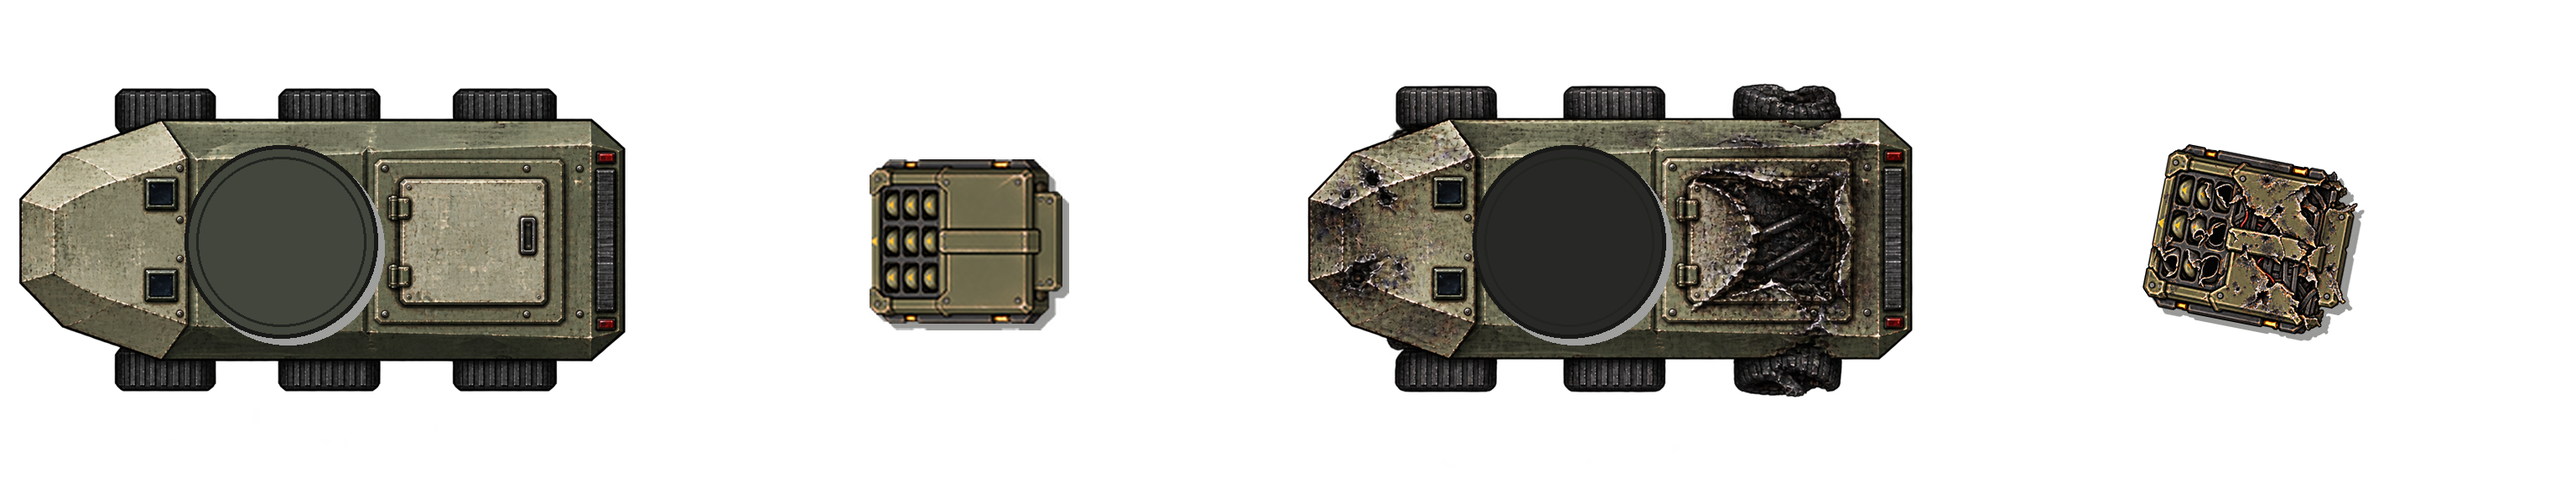
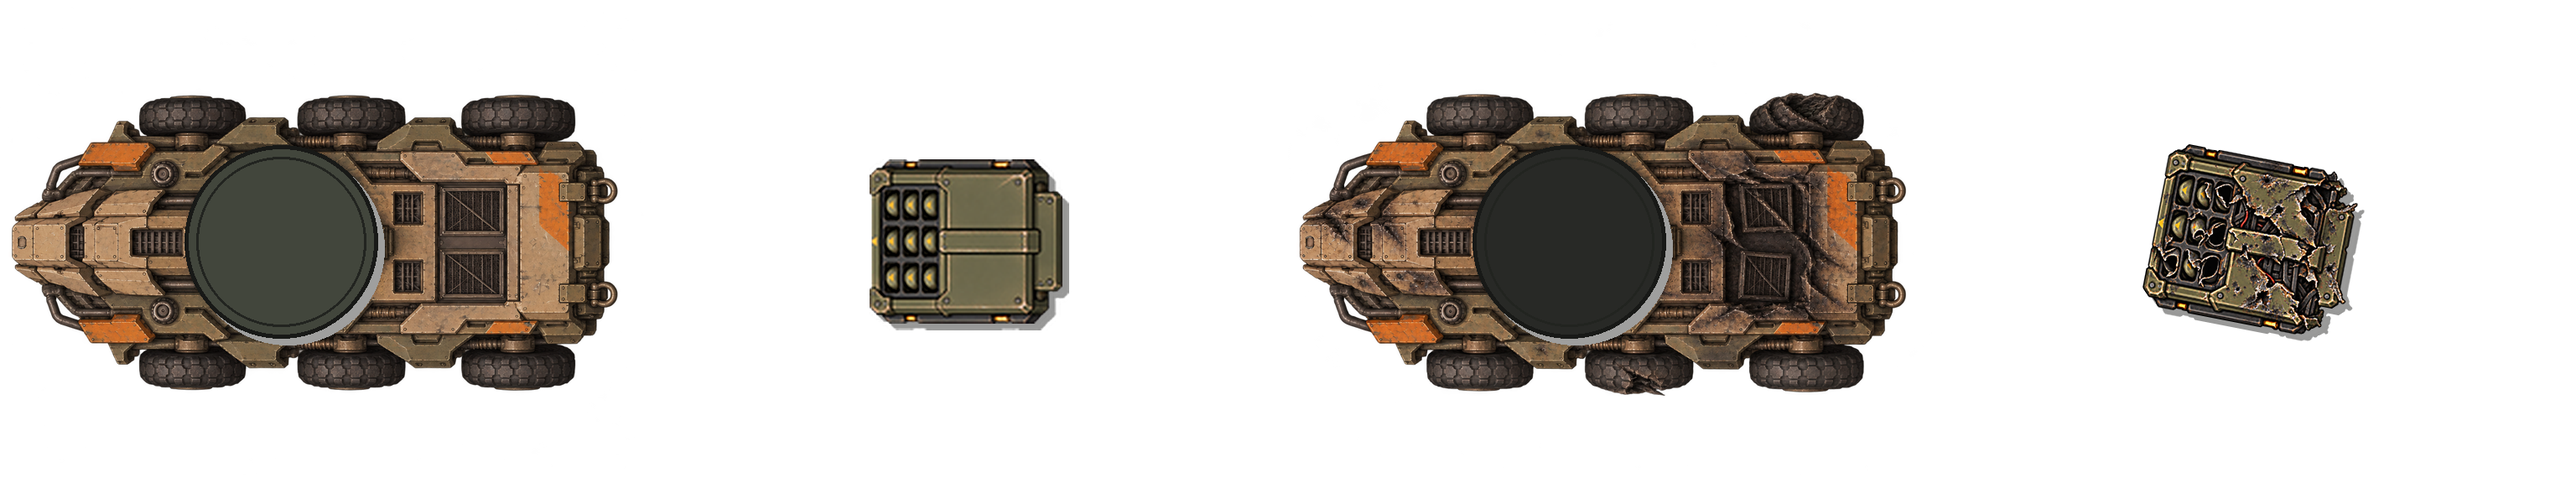
The APC, mortar carrier and LRM carrier ride the Hegemony hull (owner's concept), and the turret head has its own painted wreck. art-source/vehicles/apc/hegemony/pack.py turns the concept and an ImageGen wreck made on it to point left, scales them to the old hull's length and puts the concept's turr

Changed region(s): [[0.5, 0.1562, 0.75, 0.8438], [0.0, 0.1562, 0.25, 0.8125]]

diff --git a/art-source/vehicles/apc/hegemony/pack.py b/art-source/vehicles/apc/hegemony/pack.py
@@ -1,0 +1,75 @@
+"""Pack the APC's sheet from the owner's Hegemony concept (hegemony-armor-line.md, slice 2).
+
+  mod/graphics/battle/vehicles/army-apc.png   4 x 768x576: Hegemony hull, twin-MG turret, Hegemony wreck, wrecked turret
+
+The live hull is `hegemony-concepts/heg-apc-concept.png` verbatim (alpha is clean; its dark glow is colour on zero
+alpha) and the wreck `wreck-raw.png`, an ImageGen edit made on it with `wreck.prompt.txt`, registered to it pixel for
+pixel. Both are drawn nose up, so each is turned a quarter anticlockwise to point LEFT, scaled uniformly so the hull is
+as long as the old APC's (722 px of the 768 px frame) and placed so the concept's turret ring centre lands on the roof
+bearing (335.333, 288) that `VehicleType.Apc.TURRET_MOUNT_Y` and the mortar and LRM carriers' packs already use. The
+hull's own centre then sits about 9 px aft of the frame centre, 0.03 cells.
+
+Slots 1 and 3 keep the old twin-MG turret frames from `../master.png` and `../wreck-master.png` at their original
+registration (`../registration.json`). A fitted weapon is drawn under the turret head instead (`TurretHead`), so these
+frames are only a fallback for a hull drawn without a gun card.
+
+After running this, re-run the mortar and LRM carrier packs: both copy this sheet's hull slots.
+Run: python art-source/vehicles/apc/hegemony/pack.py
+"""
+import json
+from pathlib import Path
+
+from PIL import Image
+
+HERE = Path(__file__).resolve().parent
+APC = HERE.parent
+REPO = HERE.parents[3]
+OUT = REPO / "mod" / "graphics" / "battle" / "vehicles" / "army-apc.png"
+LIVE = REPO / "art-source" / "vehicles" / "hegemony-concepts" / "heg-apc-concept.png"
+WRECK = HERE / "wreck-raw.png"
+
+SLOT_W, SLOT_H = 768, 576
+HULL_LENGTH_PX = 722                 # the old APC hull's opaque length in its frame
+CONCEPT_NOSE_Y, CONCEPT_TAIL_Y = 92, 1365  # the concept hull's opaque extent along its length (alpha > 128)
+CONCEPT_RING = (514, 658)            # the concept's turret ring centre, measured off its disc
+ROOF_BEARING = (335.333, 288)        # where the ring lands in the frame
+
+
+def hull_frame(source: Path) -> Image.Image:
+    image = Image.open(source).convert("RGBA")
+    width = image.width
+    turned = image.rotate(90, expand=True)  # anticlockwise: the top (nose) goes to the left
+    ring = (CONCEPT_RING[1], width - 1 - CONCEPT_RING[0])
+    scale = HULL_LENGTH_PX / (CONCEPT_TAIL_Y - CONCEPT_NOSE_Y)
+    scaled = turned.resize((round(turned.width * scale), round(turned.height * scale)), Image.Resampling.LANCZOS)
+    frame = Image.new("RGBA", (SLOT_W, SLOT_H), (0, 0, 0, 0))
+    frame.alpha_composite(scaled, (round(ROOF_BEARING[0] - ring[0] * scale), round(ROOF_BEARING[1] - ring[1] * scale)))
+    return frame
+
+
+def old_turret_frame(entry: dict) -> Image.Image:
+    source = Image.open(APC / entry["source"]).convert("RGBA")
+    x, y, w, h = entry["sourceRect"]
+    scale = entry["scale"]
+    part = source.crop((x, y, x + w, y + h))
+    part = part.resize((round(w * scale), round(h * scale)), Image.Resampling.BICUBIC)
+    local_x = entry["targetCenter"][0] % SLOT_W
+    frame = Image.new("RGBA", (SLOT_W, SLOT_H), (0, 0, 0, 0))
+    frame.alpha_composite(part, (round(local_x - (entry["sourceCenter"][0] - x) * scale),
+                                 round(entry["targetCenter"][1] - (entry["sourceCenter"][1] - y) * scale)))
+    return frame
+
+
+def main() -> None:
+    registration = json.loads((APC / "registration.json").read_text())
+    frames = [hull_frame(LIVE), old_turret_frame(registration["frames"][1]),
+              hull_frame(WRECK), old_turret_frame(registration["frames"][3])]
+    sheet = Image.new("RGBA", (SLOT_W * 4, SLOT_H), (0, 0, 0, 0))
+    for index, frame in enumerate(frames):
+        sheet.paste(frame, (index * SLOT_W, 0))
+    sheet.save(OUT)
+    print("wrote", OUT)
+
+
+if __name__ == "__main__":
+    main()

diff --git a/src/main/java/com/dillon/starsectormarines/ops/battleview/ConvoyRenderSystem.java b/src/main/java/com/dillon/starsectormarines/ops/battleview/ConvoyRenderSystem.java
@@ -221,8 +221,7 @@ public final class ConvoyRenderSystem implements RenderSystem {
                     // No part in the gun card: the ring stands bare, and the hull has no turret and no gun; a hull
                     // with a closed head shows it with nothing in its slot.
                     drawTurretHead(out, sprites, type, cam.cellToScreenX(body.x + mountWorldX),
-                            cam.cellToScreenY(body.y + mountWorldY), cellPx, turretStateFacing,
-                            wrecked ? WRECK_SHADE : 1f, alphaMult);
+                            cam.cellToScreenY(body.y + mountWorldY), cellPx, turretStateFacing, wrecked, alphaMult);
                 } else if (gun == null) {
                     if (raised) {
                         float lift = RAISE_SHADOW_CELLS * turret.elevation;
@@ -321,7 +320,7 @@ public final class ConvoyRenderSystem implements RenderSystem {
                     // A family's closed head goes over the weapon, so only its barrel shows through the slot; it holds
                     // the ring's centre while the gun under it kicks.
                     drawTurretHead(out, sprites, type, cam.cellToScreenX(body.x + mountWorldX),
-                            cam.cellToScreenY(body.y + mountWorldY), cellPx, turretStateFacing + wreckSkewDeg, shade,
+                            cam.cellToScreenY(body.y + mountWorldY), cellPx, turretStateFacing + wreckSkewDeg, wrecked,
                             alphaMult);
                 }
                 if (locations != null && locations.turret() != null
@@ -346,11 +345,17 @@ public final class ConvoyRenderSystem implements RenderSystem {
 
     /**
      * Draws {@code type}'s closed family head ({@link VehicleGun#headCells}) centred on the ring at the screen point,
-     * its slot toward {@code facingDeg}; nothing for a hull without one or when the art did not load.
+     * its slot toward {@code facingDeg}; nothing for a hull without one or when the art did not load. A wreck draws the
+     * head's own painted wreck, falling back to the live head charred.
      */
     private static void drawTurretHead(DrawList out, BattleSprites sprites, VehicleType type, float x, float y,
-                                       float cellPx, float facingDeg, float shade, float alpha) {
-        LayeredSpriteCache head = sprites.vehicleTurretHead(type.turretHead());
+                                       float cellPx, float facingDeg, boolean wrecked, float alpha) {
+        LayeredSpriteCache head = wrecked ? sprites.vehicleTurretHead(type.turretHead(), true) : null;
+        float shade = 1f;
+        if (head == null) {
+            head = sprites.vehicleTurretHead(type.turretHead(), false);
+            shade = wrecked ? WRECK_SHADE : 1f;
+        }
         if (head == null) return;
         float px = VehicleGun.headCells(type) * cellPx;
         out.addSprite(RenderLayer.CONVOY, head.sprite, x, y, px, px, facingDeg, shade, shade, shade, alpha);

diff --git a/art-source/vehicles/turret-head/build.py b/art-source/vehicles/turret-head/build.py
@@ -1,6 +1,8 @@
 """Build the shared turret head's sprite from the accepted ImageGen master beside this file.
 
-  master-v2.png -> mod/graphics/battle/vehicles/turret-head-hegemony.png (320 px square, gun slot to the top)
+  master-v2.png -> mod/graphics/battle/vehicles/turret-head-hegemony.png       (320 px square, gun slot to the top)
+  wreck-raw.png -> mod/graphics/battle/vehicles/turret-head-hegemony-wreck.png (the same square; an ImageGen edit
+                   made on master-v2.png with wreck.prompt.txt, registered to it pixel for pixel)
 
 `master.png` was the first take: right silhouette and finish, but it copied the hulls' empty-ring hatch (arrows and
 hazard ring) onto the roof, so it read as a second socket; `master-v2.png` asked for a plain cupola instead and is the
@@ -16,22 +18,31 @@ from PIL import Image
 
 HERE = Path(__file__).resolve().parent
 REPO = HERE.parents[2]
-OUT = REPO / "mod" / "graphics" / "battle" / "vehicles" / "turret-head-hegemony.png"
+VEHICLES = REPO / "mod" / "graphics" / "battle" / "vehicles"
+HEADS = (("master-v2.png", "turret-head-hegemony.png"), ("wreck-raw.png", "turret-head-hegemony-wreck.png"))
 GUIDE_SIZE = 1024
 GUIDE_BASE_RADIUS = 380
 SIZE = 320
 
 
-def main() -> None:
-    image = Image.open(HERE / "master-v2.png").convert("RGBA")
+def build(source: str, output: str, half: int = 0) -> int:
+    image = Image.open(HERE / source).convert("RGBA")
     scale = image.width / GUIDE_SIZE
     cx = cy = image.width / 2
     alpha = image.getchannel("A").point(lambda v: 255 if v >= 24 else 0)
     left, top, right, bottom = alpha.getbbox()
-    half = math.ceil(max(cx - left, right - cx, cy - top, bottom - cy))
+    half = half or math.ceil(max(cx - left, right - cx, cy - top, bottom - cy))
     square = image.crop((round(cx - half), round(cy - half), round(cx + half), round(cy + half)))
-    square.resize((SIZE, SIZE), Image.Resampling.LANCZOS).save(OUT)
-    print("wrote", OUT, "side/base diameter =", round(2 * half / (2 * GUIDE_BASE_RADIUS * scale), 4))
+    square.resize((SIZE, SIZE), Image.Resampling.LANCZOS).save(VEHICLES / output)
+    print("wrote", output, "side/base diameter =", round(2 * half / (2 * GUIDE_BASE_RADIUS * scale), 4))
+    return half
+
+
+def main() -> None:
+    # The wreck is cut to the live head's square, so the swap does not move or rescale it.
+    half = build(*HEADS[0])
+    for source, output in HEADS[1:]:
+        build(source, output, half)
 
 
 if __name__ == "__main__":

diff --git a/src/main/java/com/dillon/starsectormarines/ops/battleview/BattleSprites.java b/src/main/java/com/dillon/starsectormarines/ops/battleview/BattleSprites.java
@@ -163,6 +163,7 @@ public class BattleSprites {
     private LayeredSpriteCache vehicleTurretBaseLight;
     private LayeredSpriteCache vehicleGunPlate;
     private final EnumMap<TurretHead, LayeredSpriteCache> vehicleTurretHeads = new EnumMap<>(TurretHead.class);
+    private final EnumMap<TurretHead, LayeredSpriteCache> vehicleTurretHeadWrecks = new EnumMap<>(TurretHead.class);
     private LayeredSpriteCache vehicleKitActiveProtection;
     private LayeredSpriteCache vehicleKitActiveProtectionTurret;
     private final EnumMap<MechWeaponComponent, LayeredSpriteCache> vehicleGunDrawings =
@@ -307,8 +308,10 @@ public class BattleSprites {
      * ({@link com.dillon.starsectormarines.battle.vehicle.VehicleGun#plateCells}). Null when the art did not load.
      */
     public LayeredSpriteCache vehicleGunPlate() { return vehicleGunPlate; }
-    /** The closed head of this family drawn over a fitted weapon, gun slot to the top; null when the art did not load. */
-    public LayeredSpriteCache vehicleTurretHead(TurretHead head) { return head == null ? null : vehicleTurretHeads.get(head); }
+    /** The closed head of this family drawn over a fitted weapon, live or wrecked, gun slot to the top; null when the art did not load. */
+    public LayeredSpriteCache vehicleTurretHead(TurretHead head, boolean wrecked) {
+        return head == null ? null : (wrecked ? vehicleTurretHeadWrecks : vehicleTurretHeads).get(head);
+    }
     /**
      * The active-protection kit's launchers and sensor panels, drawn over a gun tank's live hull in its frame's
      * registration ({@link com.dillon.starsectormarines.marine.MechInternal#ACTIVE_PROTECTION}). Null when the
@@ -1399,6 +1402,8 @@ public class BattleSprites {
         for (TurretHead head : TurretHead.values()) {
             LayeredSpriteCache sprite = loadLayeredSprite("graphics/battle/vehicles/" + head.texture);
             if (sprite != null) vehicleTurretHeads.put(head, sprite);
+            LayeredSpriteCache wreck = loadLayeredSprite("graphics/battle/vehicles/" + head.wreckTexture);
+            if (wreck != null) vehicleTurretHeadWrecks.put(head, wreck);
         }
         vehicleKitActiveProtection = loadLayeredSprite("graphics/battle/vehicles/kit-active-protection.png");
         vehicleKitActiveProtectionTurret = loadLayeredSprite("graphics/battle/vehicles/kit-active-protection-turret.png");

diff --git a/src/test/java/com/dillon/starsectormarines/ops/battleview/HeadlessBattleSprites.java b/src/test/java/com/dillon/starsectormarines/ops/battleview/HeadlessBattleSprites.java
@@ -129,6 +129,7 @@ final class HeadlessBattleSprites extends BattleSprites {
     private final LayeredSpriteCache turretBaseLight;
     private final LayeredSpriteCache gunPlate;
     private final EnumMap<TurretHead, LayeredSpriteCache> turretHeads = new EnumMap<>(TurretHead.class);
+    private final EnumMap<TurretHead, LayeredSpriteCache> turretHeadWrecks = new EnumMap<>(TurretHead.class);
     private final LayeredSpriteCache kitActiveProtection;
     private final LayeredSpriteCache kitActiveProtectionTurret;
     private final EnumMap<MechWeaponComponent, LayeredSpriteCache> gunDrawings = new EnumMap<>(MechWeaponComponent.class);
@@ -204,6 +205,8 @@ final class HeadlessBattleSprites extends BattleSprites {
         for (TurretHead head : TurretHead.values()) {
             LayeredSpriteCache sprite = optionalLayer("graphics/battle/vehicles/" + head.texture);
             if (sprite != null) turretHeads.put(head, sprite);
+            LayeredSpriteCache wreck = optionalLayer("graphics/battle/vehicles/" + head.wreckTexture);
+            if (wreck != null) turretHeadWrecks.put(head, wreck);
         }
         kitActiveProtection = optionalLayer("graphics/battle/vehicles/kit-active-protection.png");
         kitActiveProtectionTurret = optionalLayer("graphics/battle/vehicles/kit-active-protection-turret.png");
@@ -375,8 +378,8 @@ final class HeadlessBattleSprites extends BattleSprites {
     @Override public LayeredSpriteCache vehicleTurretCollar() { return turretCollar; }
     @Override public LayeredSpriteCache vehicleTurretBase(boolean light) { return light ? turretBaseLight : turretBase; }
     @Override public LayeredSpriteCache vehicleGunPlate() { return gunPlate; }
-    @Override public LayeredSpriteCache vehicleTurretHead(TurretHead head) {
-        return head == null ? null : turretHeads.get(head);
+    @Override public LayeredSpriteCache vehicleTurretHead(TurretHead head, boolean wrecked) {
+        return head == null ? null : (wrecked ? turretHeadWrecks : turretHeads).get(head);
     }
     @Override public LayeredSpriteCache vehicleKitActiveProtection() { return kitActiveProtection; }
     @Override public LayeredSpriteCache vehicleKitActiveProtectionTurret() { return kitActiveProtectionTurret; }

diff --git a/src/main/java/com/dillon/starsectormarines/ops/battleview/VehicleTreadRender.java b/src/main/java/com/dillon/starsectormarines/ops/battleview/VehicleTreadRender.java
@@ -15,13 +15,15 @@ final class VehicleTreadRender {
     // The dozer's 4.6-cell frame carries the same hull drawn smaller, about the frame center.
     private static final Band[] DOZER = scaled(TANK, VehicleType.BREAKTHROUGH_TANK.drawnLengthCells
             / VehicleType.DOZER_BREACHER.drawnLengthCells);
+    // The Hegemony APC's six tyres (art-source/vehicles/apc/hegemony): the straight middle of each tyre's outer half,
+    // repeating its block tread every 17 pixels.
     private static final Band[] APC = {
-            new Band(148, 246, 111, 30, 151, 42),
-            new Band(344, 444, 111, 30, 347, 42),
-            new Band(552, 652, 111, 30, 555, 42),
-            new Band(148, 246, 432, 28, 151, 42),
-            new Band(344, 444, 432, 28, 347, 42),
-            new Band(552, 652, 432, 28, 555, 42)
+            new Band(185, 275, 119, 28, 188, 17),
+            new Band(372, 465, 119, 28, 375, 17),
+            new Band(570, 668, 119, 28, 573, 17),
+            new Band(185, 275, 431, 28, 188, 17),
+            new Band(372, 465, 431, 28, 375, 17),
+            new Band(570, 668, 431, 28, 573, 17)
     };
 
     static void collect(VehicleType type, UnitSpriteCache cache, GroundBody body,

diff --git a/src/main/java/com/dillon/starsectormarines/battle/vehicle/TurretHead.java b/src/main/java/com/dillon/starsectormarines/battle/vehicle/TurretHead.java
@@ -8,12 +8,15 @@ package com.dillon.starsectormarines.battle.vehicle;
  */
 public enum TurretHead {
     /** Tan and olive Hegemony plate with orange hazard panels, gun slot through the mantlet (art-source/vehicles/turret-head). */
-    HEGEMONY("turret-head-hegemony.png");
+    HEGEMONY("turret-head-hegemony.png", "turret-head-hegemony-wreck.png");
 
     /** The head's sprite under {@code graphics/battle/vehicles/}, gun slot to the top, centred on the ring's centre. */
     public final String texture;
+    /** The same head wrecked, cut to the live head's square so the swap does not move it. */
+    public final String wreckTexture;
 
-    TurretHead(String texture) {
+    TurretHead(String texture, String wreckTexture) {
         this.texture = texture;
+        this.wreckTexture = wreckTexture;
     }
 }

diff --git a/src/main/java/com/dillon/starsectormarines/battle/vehicle/VehicleType.java b/src/main/java/com/dillon/starsectormarines/battle/vehicle/VehicleType.java
@@ -557,8 +557,8 @@ public enum VehicleType {
     /** The finish of the turret mount ring this hull's gun stands on: the laser tank white, the hovers silver, the rest army green. */
     /**
      * The closed head this hull draws over its fitted weapon ({@link TurretHead}), or null for a hull whose weapon stands
-     * bare on its ring. The APC is first (hegemony-armor-line.md, slice 1); its mortar and LRM carriers follow with its
-     * Hegemony hull.
+     * bare on its ring. The APC wears the Hegemony head (hegemony-armor-line.md). Its mortar and LRM carriers share its
+     * Hegemony hull but keep their open turntables: their weapons stand up to fire, which a closed head would hide.
      */
     public TurretHead turretHead() {
         return this == HEAVY_APC ? TurretHead.HEGEMONY : null;

diff --git a/roadmap/convoy/stories/hegemony-armor-line.md b/roadmap/convoy/stories/hegemony-armor-line.md
@@ -1,6 +1,6 @@
 # Story — The Hegemony armour line: a shared turret head, a new APC, a medium tank and a repulsor Onager
 
-Status: IN PROGRESS (slice 1 shipped: the Hegemony head over the APC's weapon; slices 2 to 6 remain)
+Status: IN PROGRESS (slices 1 and 2 shipped: the Hegemony head, then the APC and its carriers on the Hegemony hull; slices 3 to 6 remain)
 
 Written: 2026-11-05
 
@@ -29,8 +29,8 @@ its barrel or launcher face pokes out through the head's front: the draw order o
 The weapon keeps its own mech drawing, registration and muzzle (`MechHardpointGeometry`), so every mech part that fits
 a gun card fits every hull of every livery without new art; a new family is a head, not a set of guns. The head
 turns with the weapon and is sized from the ring, not from the weapon. A wreck shows it charred and knocked off its
-bearing, as a bare fitted weapon's wreck is; a painted wrecked head is slice 2's. An empty gun card shows the head with
-nothing in its slot.
+bearing, in its own painted wreck (`TurretHead.wreckTexture`). An empty gun card shows the head with nothing in its
+slot.
 
 This replaces the mount ring and the light-machine-gun gun plate (`gun-plate.png`) on hulls that wear a head. Hulls
 that do not join the line (the technicals, the hover scout, the laser tank) keep today's drawing until a head of
@@ -84,7 +84,9 @@ tuned in the playtest, not by evidence alone.
    ring, its wreck, a shut head for an empty card. Proven on the current hull first, so the head is judged before any
    hull changes. Evidence: `createSnapshots` stills of the light machine gun, the SRM-3 (QS) and a cannon under the
    head at the APC's and the Onager's scale, and a full traverse.
-2. **The APC hull** and its two carriers, with tire-top bands and a wreck.
+2. **Shipped.** **The APC hull** and its two carriers, with tire-top bands and a wreck (`art-source/vehicles/apc/hegemony`):
+   the concept turned and scaled to the old hull's length, its ring on the old roof bearing so no turret registration
+   moved. The carriers keep their open turntables, not the head: a mortar and an LRM pod stand up to fire.
 3. **Weight and hover split**: the ultra-heavy class, the hover/weight split, the blade recast as a weight crush;
    unit tests at the rules (`VehicleType`, the crush rule), no battle in `test`.
 4. **The repulsor Onager**: art, footprint, wreck, no treads, the dozer retired and its saves carried.

diff --git a/roadmap/convoy/design/stories.md b/roadmap/convoy/design/stories.md
@@ -16,7 +16,7 @@ implementation subtracks of this one noun, not separate domains.
 | `slice-4-tuning-feel.md` | **Partially shipped; playtest-led.** Speed-scaled lookahead and the corner governor landed. Tune controller and cost/clearance knobs together from real runs; cumulative avoidance is correctness substrate, not a conditional feel fix. |
 | `multi-truck-convoys.md` | **Queued.** LZ separation is shipped; add one dispatch's staggered same-route vehicles and following distance after the single-vehicle route/control behavior passes playtest. Extend planner-budget evidence to simultaneous vehicles. |
 | `slice-5-perf-budget.md` | **In progress.** Attribute remaining bounded recovery slices and fleet-wide work; distinguish physical overlap from padding-only planner refusal before changing escape behavior. |
-| `hegemony-armor-line.md` | **In progress (owner, 2026-11-05).** A shared turret head drawn over the fitted weapon, the APC and its carriers on a Hegemony hull, a new medium tank, the Onager as a heavy repulsor, the dozer retired and wall crushing moved to an ultra-heavy weight class. Slice 1 shipped: the Hegemony head over the APC's weapon. Slice 2, the APC and its carriers on the Hegemony hull, is next. |
+| `hegemony-armor-line.md` | **In progress (owner, 2026-11-05).** A shared turret head drawn over the fitted weapon, the APC and its carriers on a Hegemony hull, a new medium tank, the Onager as a heavy repulsor, the dozer retired and wall crushing moved to an ultra-heavy weight class. Slices 1 and 2 shipped: the Hegemony head, and the APC and its carriers on the Hegemony hull. Slice 3, the hover and weight split with the weight crush, is next. |
 | `truck-infantry-interaction.md` | **Partial.** Hulls repel bodies (contact + bow wave, `VehicleRepulsionSystem`), ram the other side (`HullRam`) and keep out of each other (`HullContactSystem`). Remaining: hull footprint as an infantry path cost, crushing, and chassis-level yielding for non-story vehicles. |
 
 The completed routing and controller slices are listed in `shipped.md`.

diff --git a/art-source/vehicles/apc/README.md b/art-source/vehicles/apc/README.md
@@ -1,5 +1,12 @@
 # APC hull and roof MG
 
+**The live and wreck hulls are now the Hegemony APC** (`hegemony/pack.py`, `hegemony-armor-line.md`): the owner's
+concept and an ImageGen wreck made on it, turned to point left, scaled to the old hull's 722 px length and registered
+with the concept's turret ring on the roof bearing (335.333, 288) below. Its fitted weapon is drawn under the
+Hegemony turret head (`art-source/vehicles/turret-head`). The six tyre bands `VehicleTreadRender` scrolls are
+re-measured there. What follows describes the original olive hull: its masters still supply the twin-MG turret
+frames (slots 1 and 3), and `pack.ps1`, which packed the whole old sheet, is retired.
+
 Created with built-in ImageGen using `shape.prompt.txt`, `guide.png` as geometry,
 and `material-reference.png` as the material reference. `guide.ps1` reproduces
 the silhouette: a left-facing six-wheel overhead hull with a tapered wedge
